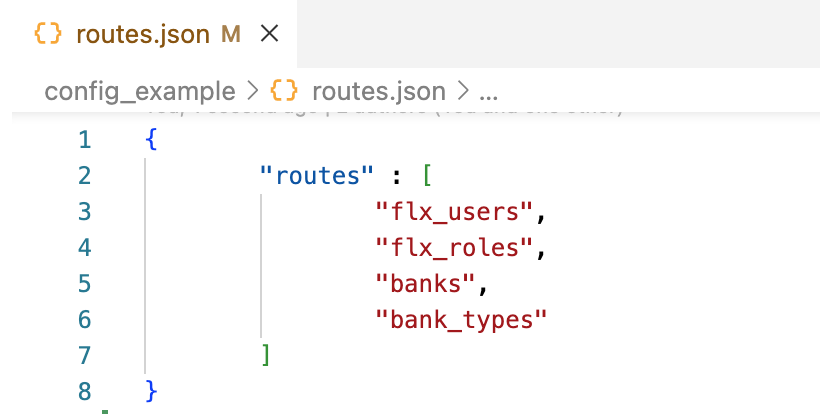
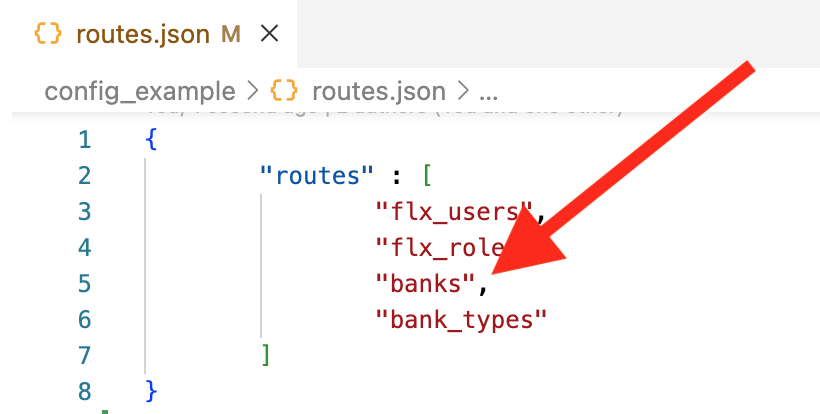
tes

Changed region(s): [[0.5793, 0.1449, 0.9451, 0.6667]]

diff --git a/README.md b/README.md
@@ -63,5 +63,15 @@ To run this project, you will need to add the following environment variables to
 - Continue to create an API configuration like the sample in flx_user, there is already a `GET` `POST` `PUT` `DELETE` `PATCH` `TRACE` method
 
 ## Example
-![alt text](routes.png)
-![alt text](services.png)
+
+![route](routes.png)
+- Add new route name to add new api example `banks`
+
+![service](services.png)
+- Create new file in `config_example` -> `entity` -> `banks` (use the same file name as the name of the route you created)
+
+![running](<running project.png>)
+- Run your project after running search `banks`
+
+![validate format](<validate format.png>)
+- Run endpoint `validate/banks` to check whether the format in the `bank` entity is correct or not
